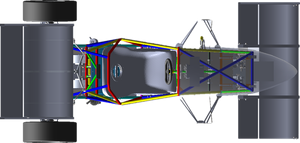
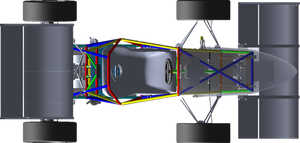
Changes with position of objects

diff --git a/front/homeWindow.html b/front/homeWindow.html
@@ -90,7 +90,7 @@
                             <h3>Tires</h3>
                             <div id="chartdiv1" style="width: 200px; height: 200px; display: inline-block;"></div>
                             <div id="chartdiv2" style="width: 200px; height: 200px; display: inline-block; position: relative; left: 150px;"></div>
-                            <br/><img id="top_view" src="images/FE_car_top_view.png" style="height: 200px; width: 400px; display: block; position: relative; left: 60px"><br/>
+                            <br/><img id="top_view" src="images/FE_car_top_view.png" style="height: 200px; width: 400px; display: block; position: relative; left: 65px; top: -25px;"><br/>
                             <div id="chartdiv3" style="width: 200px; height: 200px; display: inline-block;"></div>
                             <div id="chartdiv4" style="width: 200px; height: 200px; display: inline-block; position: relative; left: 150px;"></div>
                         </div>
